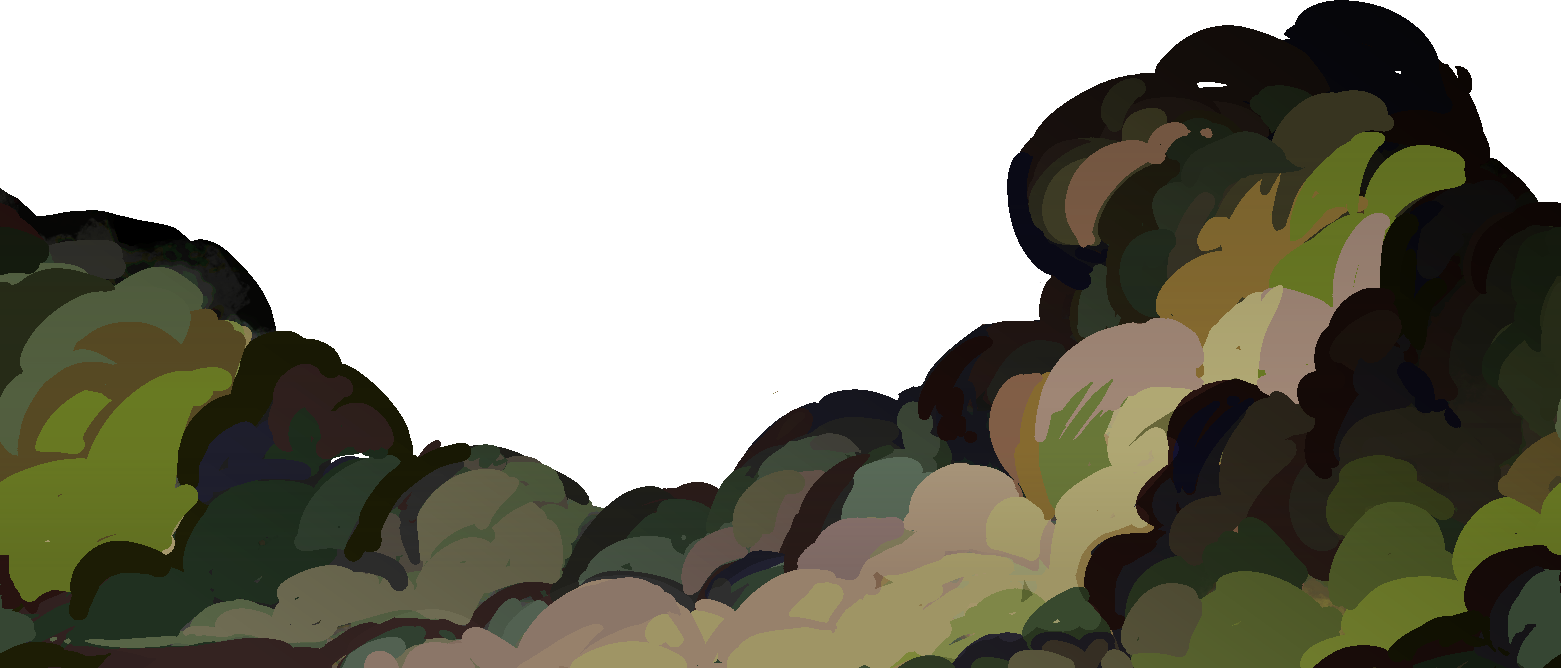
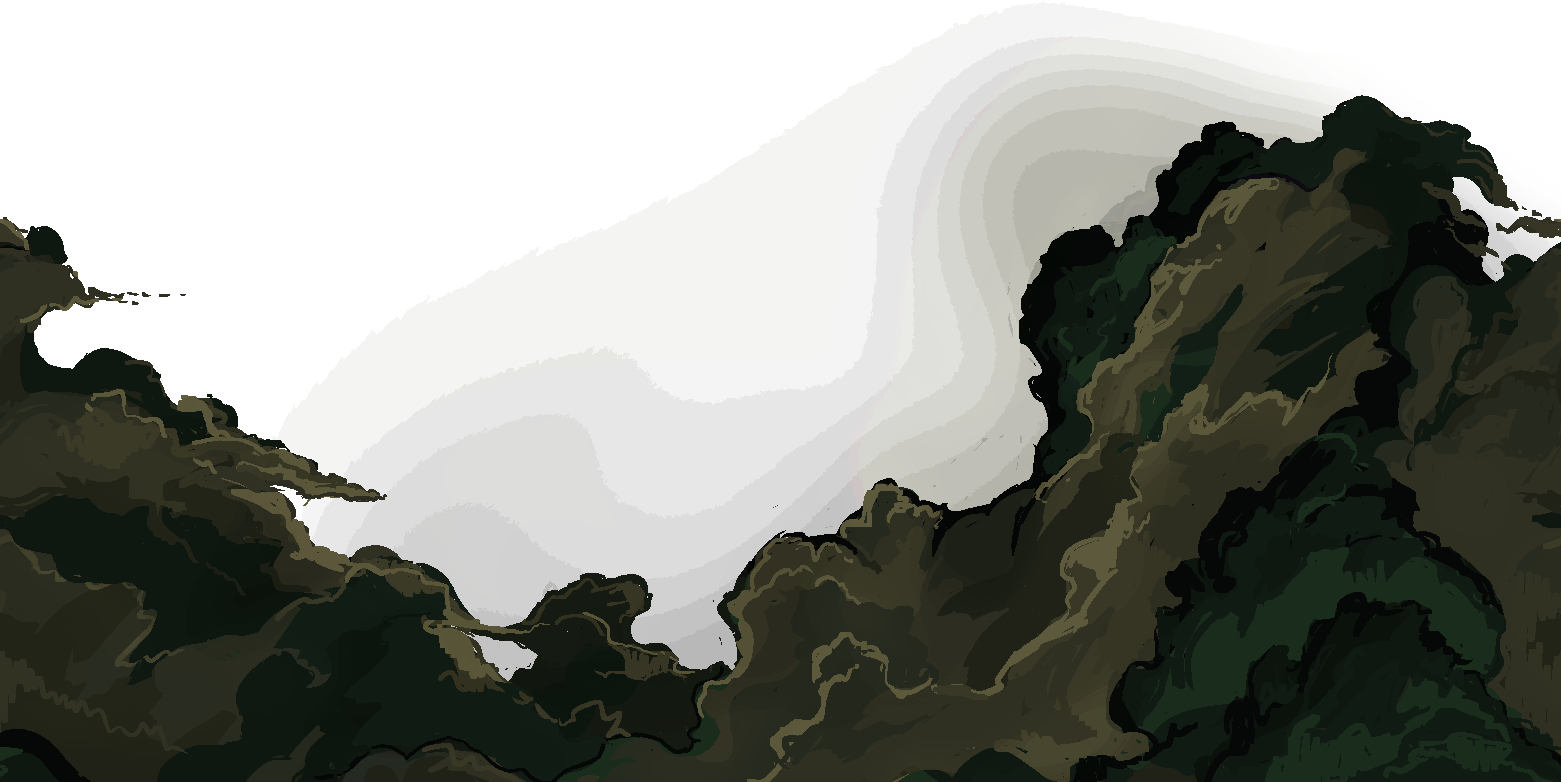
+ Updated Cloud Textures

diff --git a/Content/UI/MenuThemes/Selenic/SelenicMenu.cs b/Content/UI/MenuThemes/Selenic/SelenicMenu.cs
@@ -61,7 +61,7 @@ namespace Windfall.Content.UI.MenuThemes.Selenic;
             Vector2 halfSizeTexture = new(bloomRing.Width / 2, bloomRing.Height / 2);
             spriteBatch.Draw(bloomRing, position, null, Color.DarkOliveGreen, counter / 100f, halfSizeTexture, 1.4375f * resolutionScale.X, SpriteEffects.None, 0f);
             spriteBatch.End();
-            spriteBatch.Begin(SpriteSortMode.Deferred, BlendState.AlphaBlend, SamplerState.LinearClamp, DepthStencilState.None, Main.Rasterizer, null, Main.UIScaleMatrix);
+            spriteBatch.Begin(SpriteSortMode.Deferred, BlendState.NonPremultiplied, SamplerState.LinearClamp, DepthStencilState.None, Main.Rasterizer, null, Main.UIScaleMatrix);
 
             Texture2D moon = OratorSky.Moon.Value;
             halfSizeTexture = new(moon.Width / 2, moon.Height / 2);
@@ -78,7 +78,7 @@ namespace Windfall.Content.UI.MenuThemes.Selenic;
             */
             Texture2D CloudFront = OratorSky.FrontClouds.Value;
             backgroundOffset = GetBackgroundOffset(0.3f);
-            cloudHeight = Main.screenHeight / -3.5f + (Main.screenHeight * 1.25f);
+            cloudHeight = Main.screenHeight - 70;
             spriteBatch.Draw(CloudFront, new Vector2(GetBoundedX(backgroundOffset,                                   CloudFront.Width * cloudScale), cloudHeight - (250 * cloudScale)), CloudFront.Frame(), Color.Gray, 0f, new Vector2(CloudFront.Width / 2, CloudFront.Height / 2), cloudScale, SpriteEffects.None, 0f);
             spriteBatch.Draw(CloudFront, new Vector2(GetBoundedX(backgroundOffset - (CloudFront.Width * cloudScale), CloudFront.Width * cloudScale), cloudHeight - (250 * cloudScale)), CloudFront.Frame(), Color.Gray, 0f, new Vector2(CloudFront.Width / 2, CloudFront.Height / 2), cloudScale, SpriteEffects.None, 0f);
             spriteBatch.Draw(CloudFront, new Vector2(GetBoundedX(backgroundOffset + (CloudFront.Width * cloudScale), CloudFront.Width * cloudScale), cloudHeight - (250 * cloudScale)), CloudFront.Frame(), Color.Gray, 0f, new Vector2(CloudFront.Width / 2, CloudFront.Height / 2), cloudScale, SpriteEffects.None, 0f);

diff --git a/Content/Projectiles/Boss/Orator/ShadowGrasp.cs b/Content/Projectiles/Boss/Orator/ShadowGrasp.cs
@@ -279,9 +279,9 @@ public class ShadowGrasp : ModProjectile
             for (int i = 0; i < 24; i++)
                 Projectile.NewProjectile(Terraria.Entity.GetSource_NaturalSpawn(), Projectile.Center + Main.rand.NextVector2Circular(64f, 64f), Main.rand.NextVector2Circular(4f, 4f), ModContent.ProjectileType<DarkGlob>(), TheOrator.GlobDamage, 0f, -1, 0, Main.rand.NextFloat(0.5f, 0.75f));
 
-            bool color = Main.rand.NextBool();
-            for(int i = 0; i < 4; i++)
-                Projectile.NewProjectile(Terraria.Entity.GetSource_NaturalSpawn(), Projectile.Center, (TwoPi / 4 * i + (Orator.target.Center - Projectile.Center).ToRotation()).ToRotationVector2(), ModContent.ProjectileType<DarkBolt>(), TheOrator.BoltDamage, 0f, -1, 0, 10, color ? 1 : 0);
+            //bool color = Main.rand.NextBool();
+            //for(int i = 0; i < 4; i++)
+            //    Projectile.NewProjectile(Terraria.Entity.GetSource_NaturalSpawn(), Projectile.Center, (TwoPi / 4 * i + (Orator.target.Center - Projectile.Center).ToRotation()).ToRotationVector2(), ModContent.ProjectileType<DarkBolt>(), TheOrator.BoltDamage, 0f, -1, 0, 10, color ? 1 : 0);
         }
 
         CalamityMod.Particles.Particle pulse = new PulseRing(Projectile.Center, Vector2.Zero, Color.Teal, 0f, 2.5f, 16);
